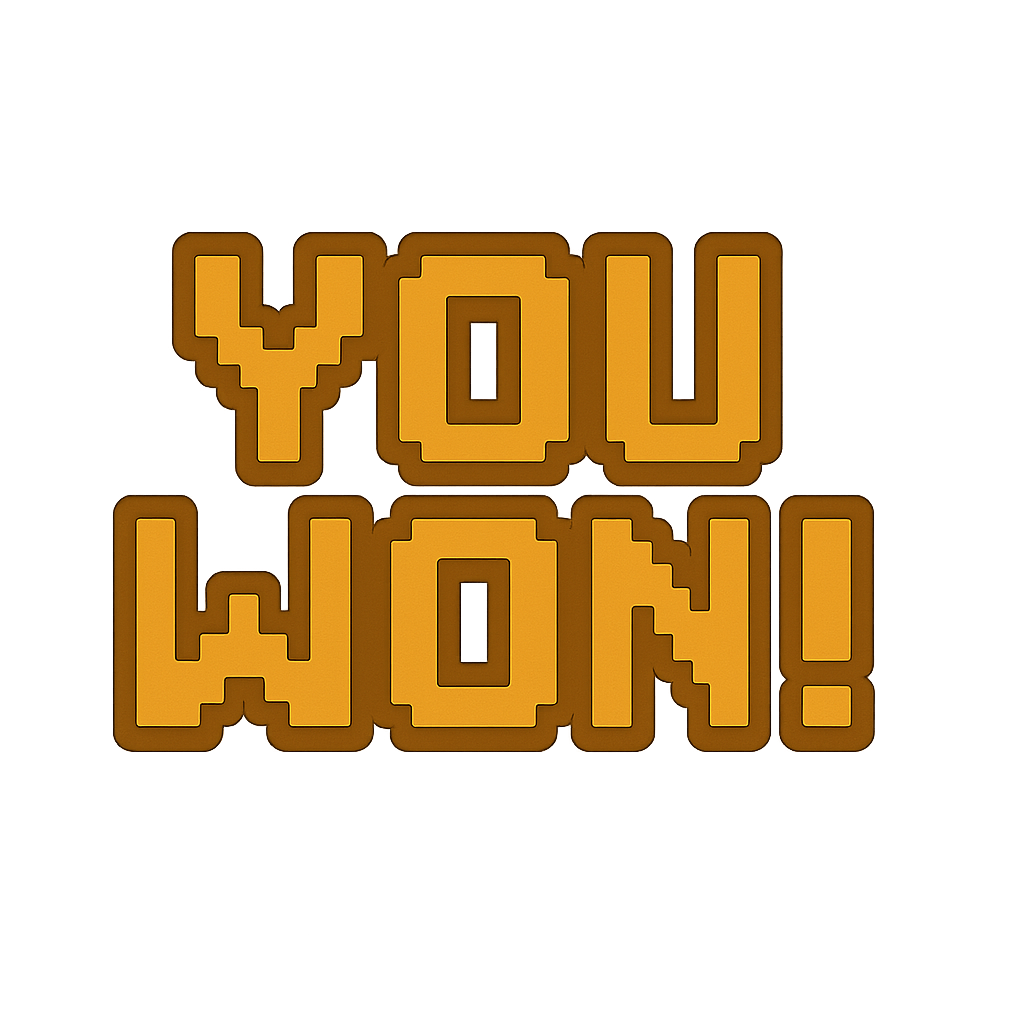
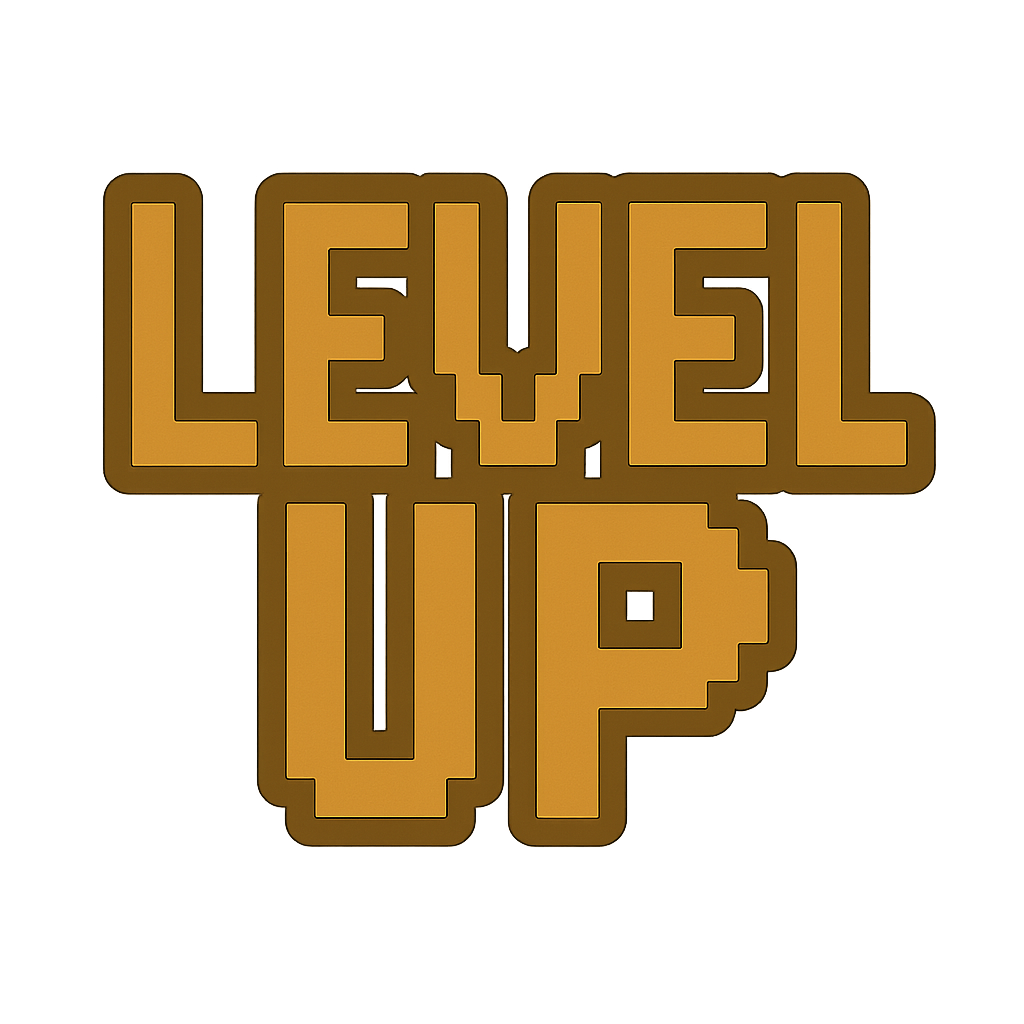
End scene

diff --git a/frontend/src/scenes/end-scene.ts b/frontend/src/scenes/end-scene.ts
@@ -4,11 +4,11 @@ import { PRIMARY_FONT_FAMILY, FontSize, fontColor } from "assets/fonts";
 import { Controls } from "common/controls";
 import { SceneKeys } from "./scene-keys";
 
-export default class WinScene extends Scene {
+export default class EndScene extends Scene {
   private controls!: Controls;
 
   constructor() {
-    super(SceneKeys.WIN_SCENE);
+    super(SceneKeys.END_SCENE);
   }
 
   create(): void {
@@ -18,34 +18,33 @@ export default class WinScene extends Scene {
 
   update(): void {
     if (this.controls.wasSpaceKeyPressed()) {
-      this.scene.start(SceneKeys.LEVELS_MENU);
+      this.scene.start(SceneKeys.MAIN_MENU);
     }
   }
 
   private initializeUI(): void {
     this.createBackground();
-    this.createWinTitle();
+    this.createEndTitle();
   }
 
   private createBackground(): void {
     const background = this.add
-      .image(0, 0, BackgroundKeys.LEVELS)
+      .image(0, 0, BackgroundKeys.MAIN_MENU)
       .setOrigin(0)
       .setTint(0x888888);
-
     background.displayWidth = this.sys.canvas.width;
     background.displayHeight = this.sys.canvas.height;
   }
 
-  private createWinTitle(): void {
+  private createEndTitle(): void {
     const { width, height } = this.scale;
 
     this.add
-      .image(width / 2, height / 2, UIComponentKeys.WIN_TITLE)
+      .image(width / 2, height / 2, UIComponentKeys.END_TITLE)
       .setOrigin(0.5)
       .setScale(0.7);
     this.add
-      .text(width / 2, height / 2 + 310, "Press SPACE to continue", {
+      .text(width / 2, height / 2 + 310, "Press SPACE to return to menu", {
         fontFamily: PRIMARY_FONT_FAMILY,
         fontSize: FontSize.TITLE,
         color: fontColor.YELLOW,

diff --git a/frontend/src/scenes/preloader.ts b/frontend/src/scenes/preloader.ts
@@ -144,7 +144,7 @@ export default class Preloader extends Scene {
     this.load.image(UIComponentKeys.SPACE, "/ui-components/space.png");
     this.load.image(UIComponentKeys.GAME_OVER, "/ui-components/game-over.png");
     this.load.image(UIComponentKeys.WIN_TITLE, "/ui-components/win-title.png");
-
+    this.load.image(UIComponentKeys.END_TITLE, "/ui-components/end-title.png");
     // Load tiles
     this.load.image(TileKeys.GRASS, "/tiles/grass.png");
     this.load.image(TileKeys.TREE, "/tiles/tree.png");
@@ -164,7 +164,7 @@ export default class Preloader extends Scene {
     // delay to see the bar
     this.time.delayedCall(1000, () => {
       this.scene.start(
-        DEBUG_MODE_ACTIVE ? FIRST_SCENE_TO_PLAY : SceneKeys.MAIN_MENU,
+        DEBUG_MODE_ACTIVE ? FIRST_SCENE_TO_PLAY : SceneKeys.END_SCENE,
       );
     });
   }

diff --git a/frontend/src/scenes/levels/base-level-scene.ts b/frontend/src/scenes/levels/base-level-scene.ts
@@ -397,7 +397,12 @@ export abstract class BaseLevelScene extends Scene {
     this.cameras.main.once(
       Phaser.Cameras.Scene2D.Events.FADE_OUT_COMPLETE,
       () => {
-        this.scene.start(SceneKeys.WIN_SCENE);
+        if (this.levelMetadata.key === "LEVEL_6") {
+          // TODO: change to level 9 when it's implemented
+          this.scene.start(SceneKeys.END_SCENE);
+        } else {
+          this.scene.start(SceneKeys.WIN_SCENE);
+        }
       },
     );
   }

diff --git a/frontend/src/main.ts b/frontend/src/main.ts
@@ -11,6 +11,7 @@ import Level6 from "./scenes/levels/level6";
 import Preloader from "./scenes/preloader";
 import GameOver from "./scenes/game-over";
 import WinScene from "./scenes/win-scene";
+import EndScene from "./scenes/end-scene";
 
 const config: Types.Core.GameConfig = {
   type: Phaser.WEBGL,
@@ -38,6 +39,7 @@ const config: Types.Core.GameConfig = {
     Level6,
     GameOver,
     WinScene,
+    EndScene,
   ],
 };
 

diff --git a/frontend/src/assets/assets.ts b/frontend/src/assets/assets.ts
@@ -79,6 +79,7 @@ export const UIComponentKeys = {
   SPACE: "SPACE",
   GAME_OVER: "GAME_OVER",
   WIN_TITLE: "WIN_TITLE",
+  END_TITLE: "END_TITLE",
 };
 
 export const TileKeys = {

diff --git a/frontend/src/scenes/scene-keys.ts b/frontend/src/scenes/scene-keys.ts
@@ -10,4 +10,5 @@ export const SceneKeys = {
   LEVEL_6: "LEVEL_6",
   WIN_SCENE: "WIN_SCENE",
   GAME_OVER: "GAME_OVER",
+  END_SCENE: "END_SCENE",
 };
